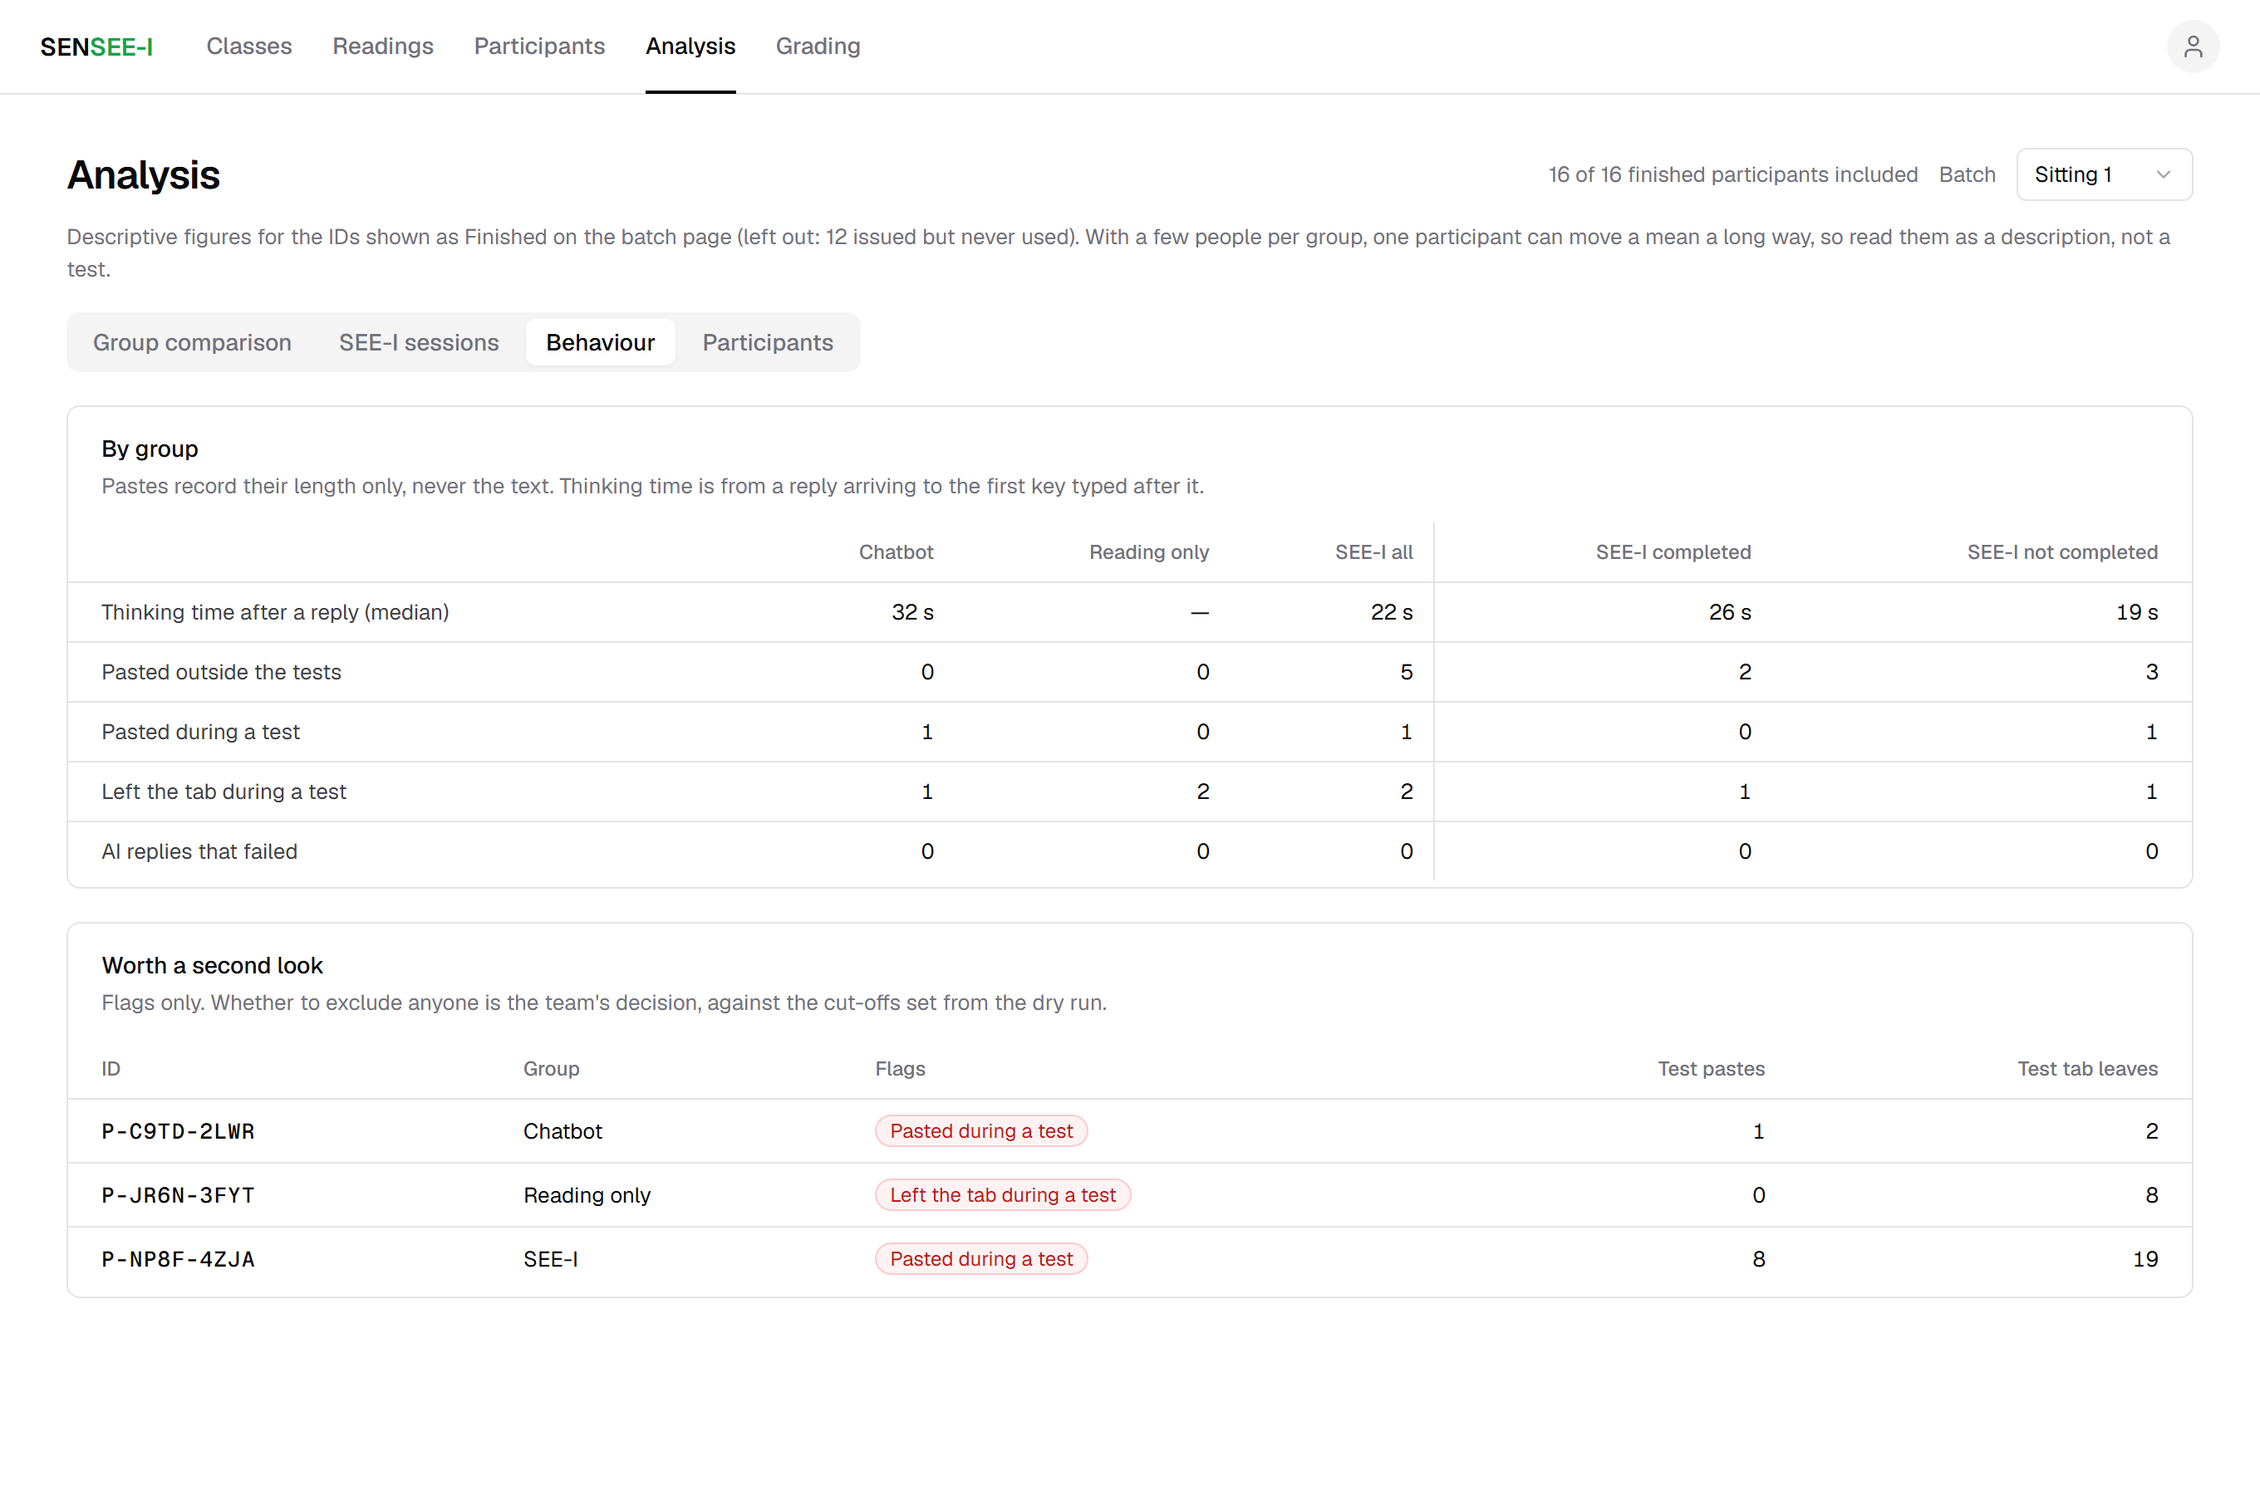
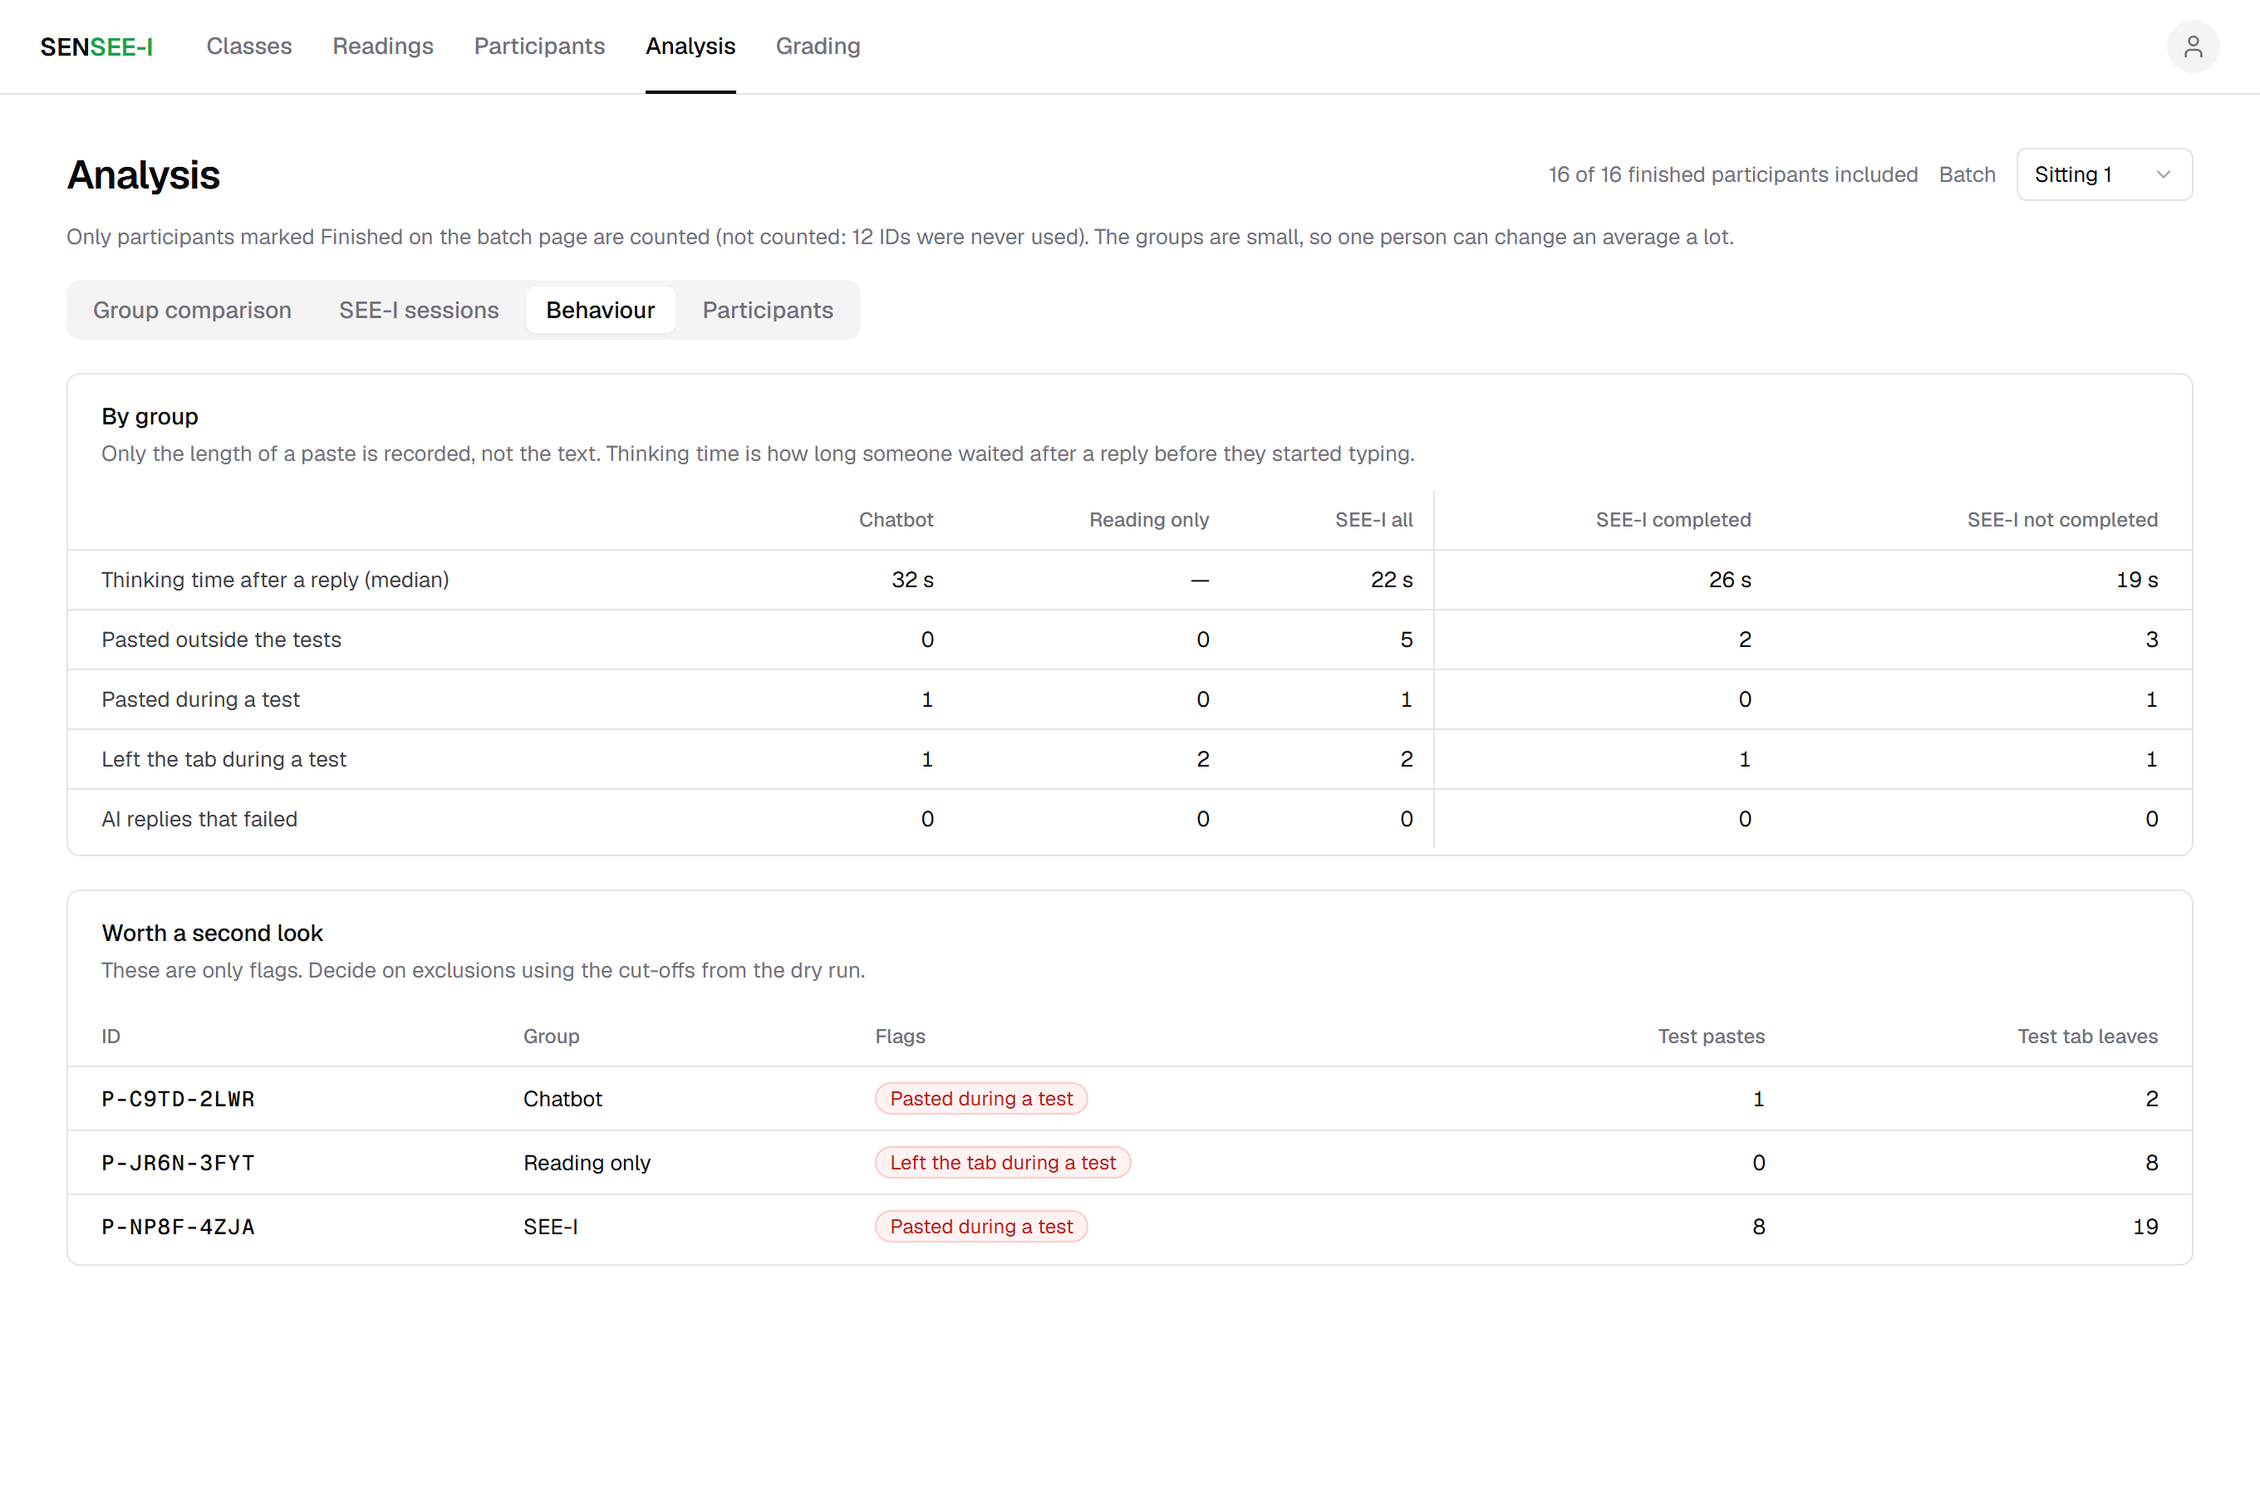
reword the analysis page's descriptions in plainer language

diff --git a/frontend/src/features/trial/AnalysisPage.tsx b/frontend/src/features/trial/AnalysisPage.tsx
@@ -147,16 +147,15 @@ export function AnalysisPage() {
           {data && data.used > 0 && (
             <>
               <p className="mb-4 text-[13px] leading-[1.6] text-muted-foreground">
-                Descriptive figures for the IDs shown as Finished on the batch page
+                Only participants marked Finished on the batch page are counted
                 {(() => {
                   const out = [
-                    data.used > data.finished && `${data.used - data.finished} signed in but not finished`,
-                    data.unused > 0 && `${data.unused} issued but never used`,
+                    data.used > data.finished && `${data.used - data.finished} signed in but didn't finish`,
+                    data.unused > 0 && `${data.unused} IDs were never used`,
                   ].filter(Boolean);
-                  return out.length ? ` (left out: ${out.join("; ")})` : "";
+                  return out.length ? ` (not counted: ${out.join(", ")})` : "";
                 })()}
-                . With a few people per group, one participant can move a mean a long way, so read
-                them as a description, not a test.
+                . The groups are small, so one person can change an average a lot.
               </p>
               <Tabs value={tab} onValueChange={(v) => go({ tab: v as Tab })}>
                 <TabsList className="mb-5 h-auto max-w-full justify-start overflow-x-auto">
@@ -281,7 +280,7 @@ function Comparison({ data }: { data: Analysis }) {
       {dist && (
         <Card
           title="Distributions"
-          note="Each curve is a normal distribution with the group's mean and SD; the dots under the axis are the actual values, one per participant. With so few people per group, read the dots first: the curves only summarise them."
+          note="Each dot under the axis is one participant. The curves are drawn from each group's mean and SD."
         >
           <Tabs value={dist.key} onValueChange={setMeasure}>
             <TabsList className="mb-4 h-auto max-w-full flex-wrap justify-start">
@@ -299,14 +298,14 @@ function Comparison({ data }: { data: Analysis }) {
       )}
       <Card
         title="Descriptive statistics"
-        note={`Every measure in full, by group. SD is the sample SD; quartiles are inclusive. Calibration is the share of "sure / not sure" ticks that matched full marks. Green marks the best of Chatbot, Reading only and SEE-I all on each mean and median: the highest, or the lowest where the measure says lower is better.`}
+        note={`Calibration is how often a participant's "sure" or "not sure" matched whether they got full marks. Green shows the best of Chatbot, Reading only and SEE-I all. For sure but wrong, lower is better.`}
       >
         <FigureTable columns={columns} rows={scores} />
       </Card>
       {dims.length > 0 && (
         <Card
           title="Post-test by dimension"
-          note="Points scored as a share of the points available, over every answer in the column. Green marks the best (highest) of Chatbot, Reading only and SEE-I all."
+          note="The share of available points each group scored. Green shows the highest of Chatbot, Reading only and SEE-I all."
         >
           <FigureTable columns={columns} rows={dims} />
         </Card>
@@ -322,11 +321,11 @@ function Behaviour({ data }: { data: Analysis }) {
   const reading = data.participants.filter((p) => p.group === "reading_only" && counted(p));
   return (
     <>
-      <Card title="By group" note="Pastes record their length only, never the text. Thinking time is from a reply arriving to the first key typed after it.">
+      <Card title="By group" note="Only the length of a paste is recorded, not the text. Thinking time is how long someone waited after a reply before they started typing.">
         <FigureTable columns={data.comparison.columns} rows={rows} />
       </Card>
       <div className="grid grid-cols-1 gap-5 lg:grid-cols-2">
-        <Card title="Chatbot use" note="For the exclusion rule on session length or words typed.">
+        <Card title="Chatbot use" note="Use this to check the exclusion rule on session length and words typed.">
           <SimpleTable
             head={["ID", "Questions", "Words typed", "Session"]}
             rows={chat.map((p) => [
@@ -338,7 +337,7 @@ function Behaviour({ data }: { data: Analysis }) {
             empty="No chatbot participants included."
           />
         </Card>
-        <Card title="Reading only" note="For the exclusion rule on time before pressing Done.">
+        <Card title="Reading only" note="Use this to check the exclusion rule on time before pressing Done.">
           <SimpleTable
             head={["ID", "Time to Done", "Pre-test", "Post-test"]}
             rows={reading.map((p) => [
@@ -351,7 +350,7 @@ function Behaviour({ data }: { data: Analysis }) {
           />
         </Card>
       </div>
-      <Card title="Worth a second look" note="Flags only. Whether to exclude anyone is the team's decision, against the cut-offs set from the dry run.">
+      <Card title="Worth a second look" note="These are only flags. Decide on exclusions using the cut-offs from the dry run.">
         <SimpleTable
           head={["ID", "Group", "Flags", "Test pastes", "Test tab leaves"]}
           rows={flagged.map((p) => [
@@ -394,7 +393,7 @@ function Seei({ data }: { data: Analysis }) {
           ])}
         />
       </Card>
-      <Card title="Steps" note="Attempts to pass is the attempt number of the pass, among those who passed.">
+      <Card title="Steps" note="Attempts to pass is the average attempt on which participants passed the step. It only counts those who passed.">
         <SimpleTable
           head={["Step", "Reached", "Passed", "Attempts", "Pass rate", "Attempts to pass", "Most attempts"]}
           rows={steps.map((s) => [
@@ -415,7 +414,7 @@ function Seei({ data }: { data: Analysis }) {
             rows={criteria.map((c) => [c.step, c.criterion, c.judged, c.failed, fmt(c.fail_rate, "share")])}
           />
         </Card>
-        <Card title="Fixed on the next attempt" note="A criterion failed on one attempt and passed on the next. Failures with no next attempt are left out.">
+        <Card title="Fixed on the next attempt" note="How often a failed criterion was passed on the next attempt. A fail on someone's last attempt isn't counted.">
           <SimpleTable
             head={["Criterion", "Failed", "Fixed", "Rate"]}
             rows={fixes.map((f) => [f.criterion, f.failed, f.fixed, fmt(f.rate, "share")])}
@@ -458,7 +457,7 @@ function Participants({ data, onToggle }: { data: Analysis; onToggle: (code: str
   );
 
   return (
-    <Card title="Every participant" note="Untick an ID to leave it out of every figure on this page. Nothing is saved: a reload, or another batch, puts everyone back.">
+    <Card title="Every participant" note="Untick an ID to leave it out of the figures. This isn't saved, so reloading or changing batch brings everyone back.">
       <div className="-mx-5">
         <Table className="min-w-[960px] whitespace-nowrap text-[13px]">
           <TableHeader className="text-[12px]">

diff --git a/design/TrialAnalysis.dc.html b/design/TrialAnalysis.dc.html
@@ -82,7 +82,7 @@
           </span>
         </div>
       </div>
-      <p class="note" style="margin: 0 0 16px;">Descriptive figures for the IDs shown as Finished on the batch page (left out: 12 issued but never used). With a few people per group, one participant can move a mean a long way, so read them as a description, not a test.</p>
+      <p class="note" style="margin: 0 0 16px;">Only participants marked Finished on the batch page are counted (not counted: 12 IDs were never used). The groups are small, so one person can change an average a lot.</p>
 
       <div class="vtabs">
         <span class="vtab {{t1}}">Group comparison</span>
@@ -98,7 +98,7 @@
         <sc-if value="{{showDist}}" hint-placeholder-val="{{true}}">
         <div class="card" style="padding-bottom: 16px;">
           <h2 class="h2">Distributions</h2>
-          <p class="note">Each curve is a normal distribution with the group's mean and SD; the dots under the axis are the actual values, one per participant. With so few people per group, read the dots first.</p>
+          <p class="note">Each dot under the axis is one participant. The curves are drawn from each group's mean and SD.</p>
           <div class="vtabs" style="margin: 12px 0 10px;">
             <span class="vtab" style="font-size: 13px;">Pre-test score</span>
             <span class="vtab vtab-on" style="font-size: 13px;">Post-test score</span>
@@ -131,7 +131,7 @@
         </sc-if>
         <div class="card">
           <h2 class="h2">Descriptive statistics</h2>
-          <p class="note">Every measure in full, by group. Green marks the best of Chatbot, Reading only and SEE-I all on each mean and median: the highest, or the lowest where the measure says lower is better.</p>
+          <p class="note">Calibration is how often a participant's "sure" or "not sure" matched whether they got full marks. Green shows the best of Chatbot, Reading only and SEE-I all. For sure but wrong, lower is better.</p>
           <table>
             <tr><th></th><th>Chatbot<br><span style="font-weight: 400;">n = 5</span></th><th>Reading only<br><span style="font-weight: 400;">n = 6</span></th><th>SEE-I all<br><span style="font-weight: 400;">n = 5</span></th><th class="split">SEE-I completed<br><span style="font-weight: 400;">n = 2</span></th><th>SEE-I not completed<br><span style="font-weight: 400;">n = 3</span></th></tr>
             <sc-for list="{{scores}}" as="r" hint-placeholder-count="7">
@@ -141,7 +141,7 @@
         </div>
         <div class="card">
           <h2 class="h2">Post-test by dimension</h2>
-          <p class="note">Points scored as a share of the points available, over every answer in the column.</p>
+          <p class="note">The share of available points each group scored. Green shows the highest of Chatbot, Reading only and SEE-I all.</p>
           <table>
             <tr><th></th><th>Chatbot</th><th>Reading only</th><th>SEE-I all</th><th class="split">SEE-I completed</th><th>SEE-I not completed</th></tr>
             <sc-for list="{{dims}}" as="r" hint-placeholder-count="5">
@@ -164,7 +164,7 @@
         </div>
         <div class="card">
           <h2 class="h2">Steps</h2>
-          <p class="note">Attempts to pass is the attempt number of the pass, among those who passed.</p>
+          <p class="note">Attempts to pass is the average attempt on which participants passed the step. It only counts those who passed.</p>
           <table>
             <tr><th>Step</th><th>Reached</th><th>Passed</th><th>Attempts</th><th>Pass rate</th><th>Attempts to pass</th><th>Most attempts</th></tr>
             <sc-for list="{{steps}}" as="r" hint-placeholder-count="4">
@@ -184,7 +184,7 @@
           </div>
           <div class="card">
             <h2 class="h2">Fixed on the next attempt</h2>
-            <p class="note">A criterion failed on one attempt and passed on the next. Failures with no next attempt are left out.</p>
+            <p class="note">How often a failed criterion was passed on the next attempt. A fail on someone's last attempt isn't counted.</p>
             <table>
               <tr><th>Criterion</th><th>Failed</th><th>Fixed</th><th>Rate</th></tr>
               <sc-for list="{{fixes}}" as="r" hint-placeholder-count="3">
@@ -199,7 +199,7 @@
       <sc-if value="{{behaviour}}" hint-placeholder-val="{{false}}">
         <div class="card">
           <h2 class="h2">By group</h2>
-          <p class="note">Pastes record their length only, never the text. Thinking time is from a reply arriving to the first key typed after it.</p>
+          <p class="note">Only the length of a paste is recorded, not the text. Thinking time is how long someone waited after a reply before they started typing.</p>
           <table>
             <tr><th></th><th>Chatbot</th><th>Reading only</th><th>SEE-I all</th><th class="split">SEE-I completed</th><th>SEE-I not completed</th></tr>
             <sc-for list="{{habits}}" as="r" hint-placeholder-count="6">
@@ -209,7 +209,7 @@
         </div>
         <div class="card">
           <h2 class="h2">Worth a second look</h2>
-          <p class="note">Flags only. Whether to exclude anyone is the team's decision, against the cut-offs set from the dry run.</p>
+          <p class="note">These are only flags. Decide on exclusions using the cut-offs from the dry run.</p>
           <table>
             <tr><th>ID</th><th class="left">Group</th><th class="left">Flags</th><th>Test pastes</th><th>Test tab leaves</th></tr>
             <sc-for list="{{flagged}}" as="r" hint-placeholder-count="3">
@@ -223,7 +223,7 @@
       <sc-if value="{{participants}}" hint-placeholder-val="{{false}}">
         <div class="card">
           <h2 class="h2">Every participant</h2>
-          <p class="note">Untick an ID to leave it out of every figure on this page. Nothing is saved: a reload, or another batch, puts everyone back.</p>
+          <p class="note">Untick an ID to leave it out of the figures. This isn't saved, so reloading or changing batch brings everyone back.</p>
           <table>
             <tr><th class="left">In</th><th class="left">ID</th><th class="left">Group</th><th class="left">SEE-I</th><th>Pre</th><th>Post</th><th>Calibration</th><th>Sure but wrong</th><th>Time</th><th>Turns / questions</th><th>Pastes</th><th class="left">Flags</th></tr>
             <sc-for list="{{people}}" as="p" hint-placeholder-count="8">

diff --git a/frontend/src/features/trial/analysis.test.tsx b/frontend/src/features/trial/analysis.test.tsx
@@ -151,7 +151,7 @@ describe("the Analysis tab", () => {
   it("counts only Finished IDs and says what it left out", async () => {
     renderPage();
     expect(await screen.findByText("2 of 2 finished participants included")).toBeInTheDocument();
-    expect(screen.getByText(/1 signed in but not finished; 3 issued but never used/)).toBeInTheDocument();
+    expect(screen.getByText(/not counted: 1 signed in but didn.t finish, 3 IDs were never used/)).toBeInTheDocument();
   });
 
   it("draws the distributions, and says when a group is too small to fit a curve", async () => {
